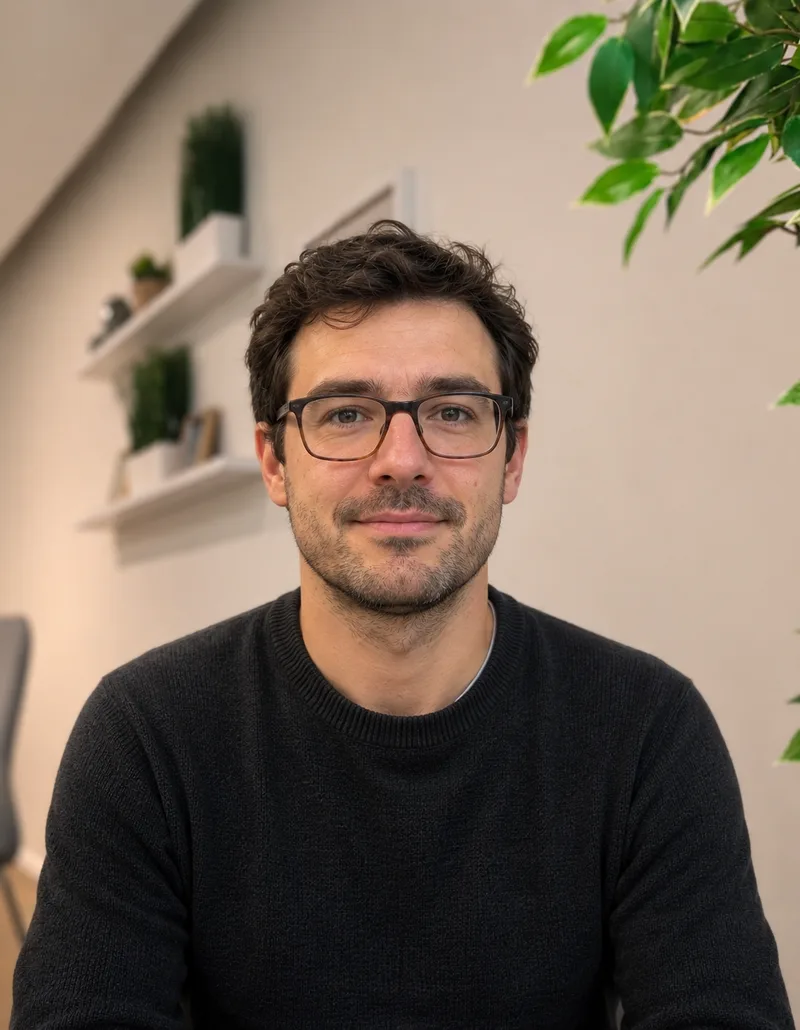
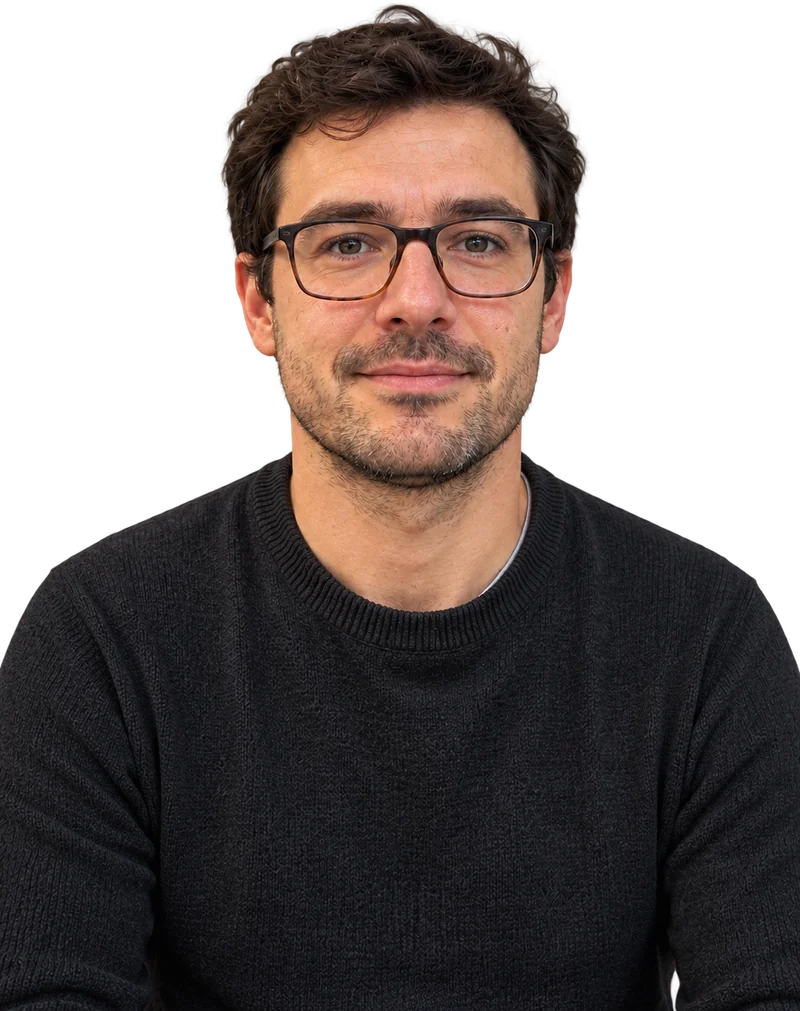
About: cut-out portraits on a soft backdrop, white cards
Claude-Session: https://claude.ai/code/session_015xtPdYoEZD4JCswFRoFStN

diff --git a/site/assets/site.css b/site/assets/site.css
@@ -271,21 +271,22 @@ main { display: flex; flex-direction: column; gap: var(--gap); }
 .owner { display: flex; flex-direction: column; align-items: flex-start; gap: 20px; }
 
 /* ---------- About page ---------- */
+/* White cards; the colour is only the portrait backdrop. Cut-out portraits (transparent PNG/webp) sit on it,
+   the head rising slightly above the backdrop. */
 .team { display: grid; grid-template-columns: 1fr; gap: var(--gap); }
 @media (min-width: 760px) { .team { grid-template-columns: repeat(3, minmax(0, 1fr)); } }
-.member { --bg: var(--pink); background: var(--bg); border-radius: var(--r-xl); padding: var(--pad-sm); display: flex; flex-direction: column; gap: 20px; }
-.member--pink { --bg: var(--pink); }
-.member--lilac { --bg: var(--lilac); }
-.member--mint { --bg: var(--mint); }
-.member--yellow { --bg: var(--yellow); }
-.member__photo { width: 100%; height: auto; aspect-ratio: 4 / 5; object-fit: cover; object-position: top; border-radius: 20px; background: var(--white); }
-.member__photo--soon { display: grid; place-items: center; }
-.member__photo--soon span { font-family: var(--mono); font-size: 12px; text-transform: uppercase; letter-spacing: .06em; color: var(--muted); }
+.member { --tone: var(--pink); background: var(--white); border-radius: var(--r-xl); padding: var(--pad-sm); display: flex; flex-direction: column; gap: 22px; }
+.member--pink { --tone: var(--pink); }
+.member--lilac { --tone: var(--lilac); }
+.member--mint { --tone: var(--mint); }
+.member--yellow { --tone: var(--yellow); }
+.member__portrait { position: relative; aspect-ratio: 1; margin-top: 12%; border-radius: 24px; background: var(--tone); }
+.member__portrait img { position: absolute; left: 50%; bottom: 0; width: 82%; height: auto; max-height: 112%; object-fit: contain; object-position: bottom; transform: translateX(-50%); border-radius: 0 0 24px 24px; }
+.member__soon { position: absolute; inset: 0; display: grid; place-items: center; font-family: var(--mono); font-size: 12px; text-transform: uppercase; letter-spacing: .06em; color: var(--ink-2); }
 .member__text { display: flex; flex-direction: column; gap: 6px; }
 .member__text h2 { font-size: 30px; font-weight: 700; letter-spacing: -.04em; line-height: 1; }
-.member__role { font-family: var(--mono); font-size: 12px; text-transform: uppercase; letter-spacing: .06em; }
-.member__text p:not(.member__role) { font-size: 16px; line-height: 1.45; }
-@media (max-width: 759px) { .member__photo { aspect-ratio: 1; } }
+.member__role { font-family: var(--mono); font-size: 12px; text-transform: uppercase; letter-spacing: .06em; color: var(--muted); }
+.member__text p:not(.member__role) { font-size: 16px; line-height: 1.45; color: var(--ink-2); }
 
 /* ---------- How it works (partials/steps.html) ---------- */
 /* Plain on the homepage (it already has colour); coloured cards with big numbers on the pricing page only */

diff --git a/site/pages/a-propos.html b/site/pages/a-propos.html
@@ -10,8 +10,10 @@
 <section class="team">
   {{#each team}}
   <article class="member member--{{.tone}}">
-    {{#if .photo}}<img class="member__photo" src="{{.photo}}" alt="{{.name}}" width="800" height="1030" loading="lazy">
-    {{else}}<div class="member__photo member__photo--soon"><span>{{t.about.photo_soon}}</span></div>{{/if}}
+    <div class="member__portrait">
+      {{#if .photo}}<img src="{{.photo}}" alt="{{.name}}" width="800" height="1030" loading="lazy">
+      {{else}}<span class="member__soon">{{t.about.photo_soon}}</span>{{/if}}
+    </div>
     <div class="member__text">
       <h2>{{.name}}</h2>
       <p class="member__role">{{.role}}</p>
